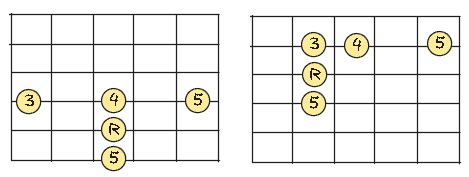
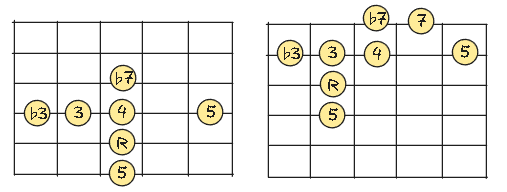
fix(guitar): related pos image is wrong

Changed region(s): [[0.0, 0.0565, 0.4776, 0.9887], [0.5075, 0.0282, 0.9851, 0.9322]]

diff --git a/src/mdx-components.tsx b/src/mdx-components.tsx
@@ -1,12 +1,19 @@
-import type { ComponentPropsWithoutRef, ComponentType, CSSProperties } from "react";
+import type {
+  ComponentPropsWithoutRef,
+  ComponentType,
+  CSSProperties,
+} from "react";
 import Collapsible from "@/components/Collapsible";
+import CodeBlock from "@/components/CodeBlock/index.client";
 import { MdxH1, MdxH2 } from "@/components/MdxHeading";
 import TOC from "@/components/TableOfContents";
 
 type MDXComponents = Record<string, ComponentType<Record<string, unknown>>>;
 
 const toCamelCase = (value: string) => {
-  return value.replace(/-([a-z])/g, (_, letter: string) => letter.toUpperCase());
+  return value.replace(/-([a-z])/g, (_, letter: string) =>
+    letter.toUpperCase(),
+  );
 };
 
 const parseStyleString = (value: string): CSSProperties => {
@@ -36,6 +43,7 @@ export function useMDXComponents(components: MDXComponents): MDXComponents {
     TOC: TOC as ComponentType<Record<string, unknown>>,
     h1: MdxH1 as ComponentType<Record<string, unknown>>,
     h2: MdxH2 as ComponentType<Record<string, unknown>>,
+    pre: CodeBlock as ComponentType<Record<string, unknown>>,
     span: MdxSpan as ComponentType<Record<string, unknown>>,
     ...components,
   };

diff --git a/contents/notes/guitar/index.md b/contents/notes/guitar/index.md
@@ -112,7 +112,7 @@ $$
 
 ## 其他級數相對位置
 
-![[related_pos.png]]
+![[related_pos.png|475]]
 
 ## Power Chord
 
